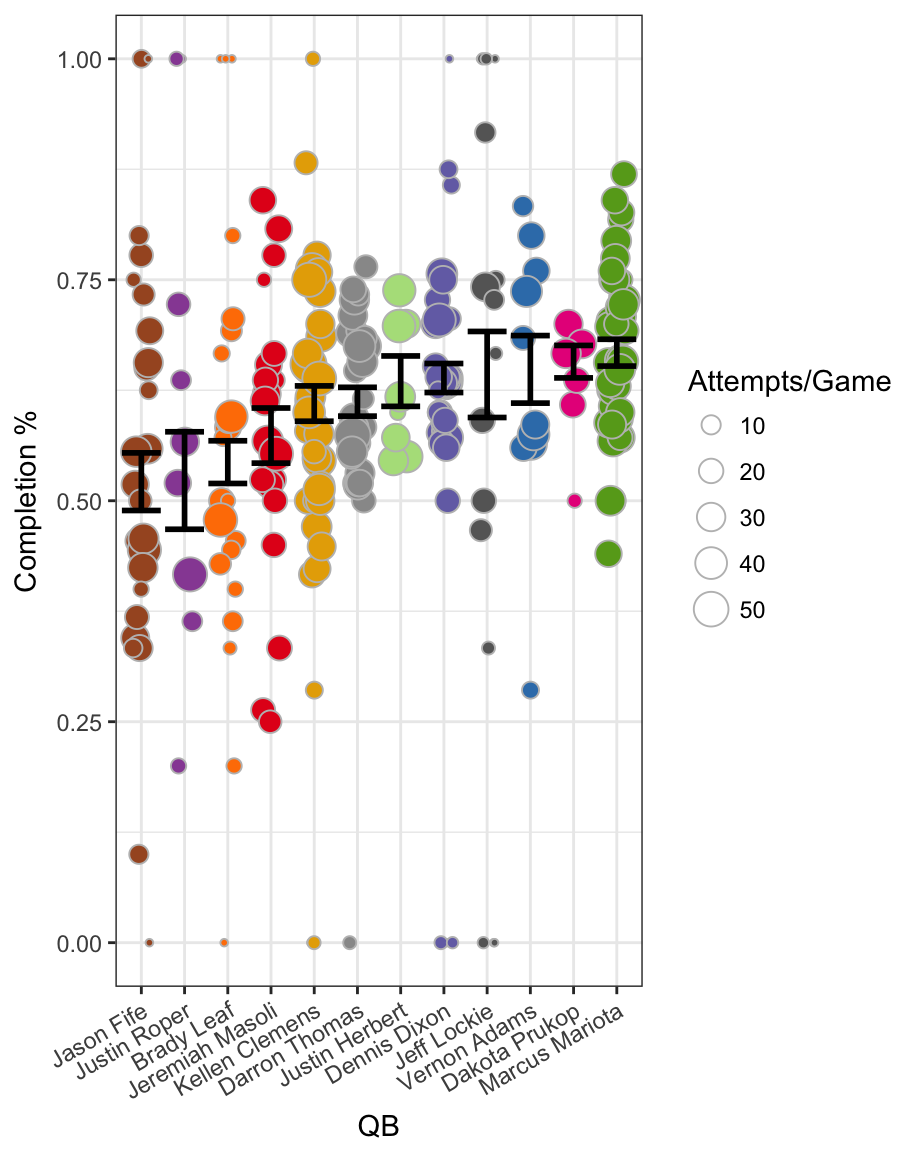
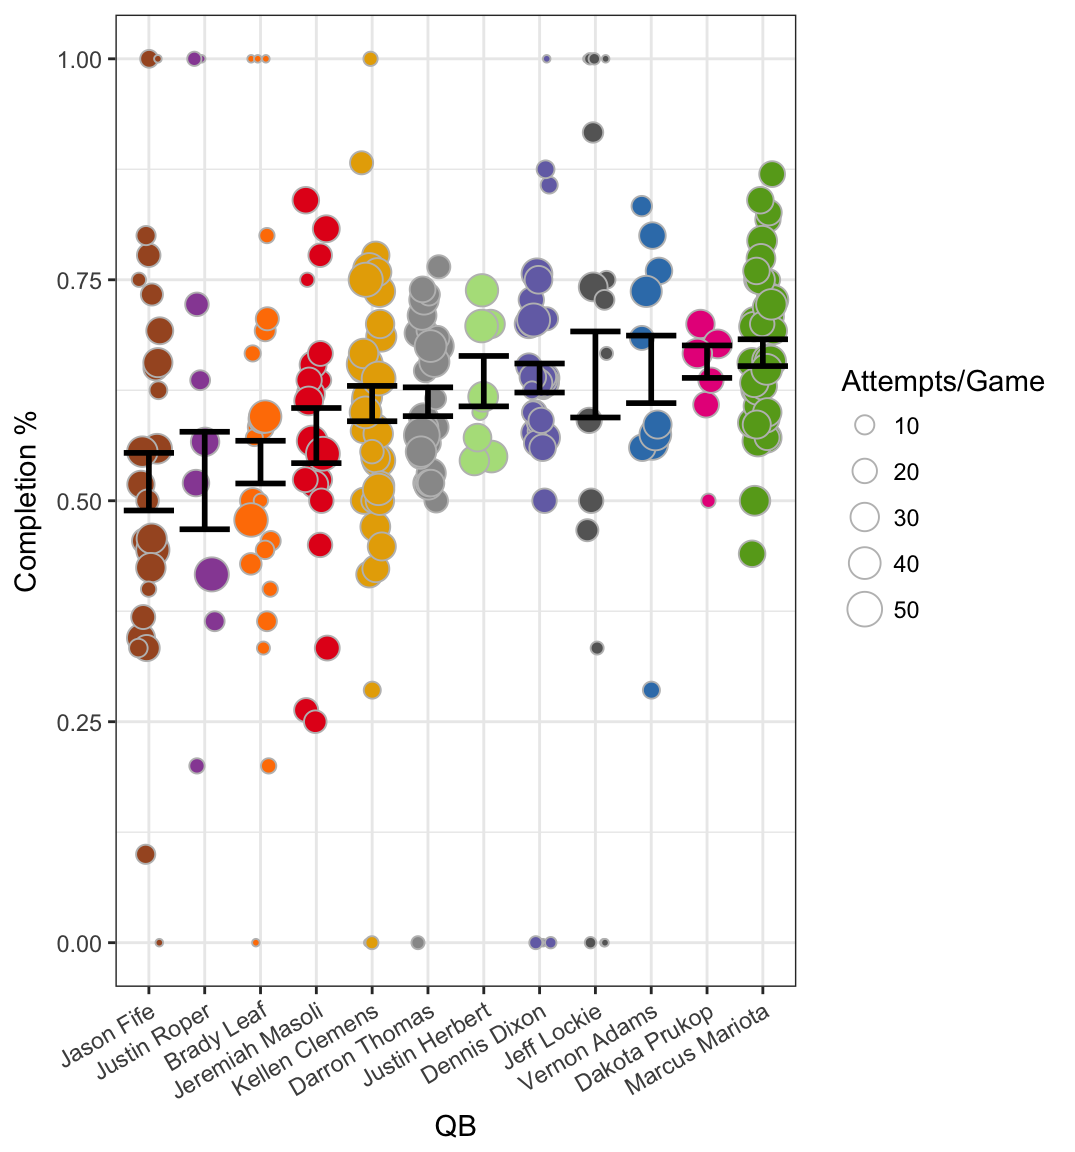
updated qb stats post

diff --git a/oregon_qb_post.html b/oregon_qb_post.html
@@ -248,13 +248,15 @@ $(document).ready(function () {
 <p>Again, somewhat encouraging for our current situation, Herbert is up there with Mariota and Adams. Masoli is the run king, and Prukop threw fewer interceptions than I remember (though these stats are not good for showing the impact of those interceptions on a game).</p>
 <p><strong>Completion percentage</strong></p>
 <p>Here we have a stat that doesn’t have a cumulative counterpart: completion percentage for each game.</p>
-<p><img src="oregon_qb_post_files/figure-html/comp-pc-game-1.png" width="460.8" /></p>
+<p><img src="oregon_qb_post_files/figure-html/comp-pc-game-1.png" width="537.6" /></p>
 <p>Hey look, Mariota is back on top. Most surprisingly, Prukop and Lockie were much higher than I expected. Again, I didn’t do proper stats, but a good rule of thumb is if the standard error intervals don’t overlap there’s probably a statistically significant difference. That puts Herbert, Dixon, Lockie, Adams, Prukop, and Mariota all at similar completion percentages per game. Huh.</p>
 </div>
 <div id="per-attempt-stats" class="section level2">
 <h2>Per Attempt Stats</h2>
 <p><strong>Passing and Rushing Yards</strong></p>
+<p>The figure below shows the average yards gained <em>per attempt</em> in each game for each QB. So, each point still represents a single game, as in the figures above. Again, the errorbars were calculated by giving greater weight to games with more attempts/carries.</p>
 <p><img src="oregon_qb_post_files/figure-html/pass-rush-yds-att-1.png" width="768" /></p>
+<p>These stats are not too surprising. Herbert is right in the middle of the pack for both stats, so it will be interesting to see if that changes much through the course of this year. We see that Mariota averaged more than 5 yards per carry, which is quite impressive, and Vernon Adams averaged right around 10 yards per pass attempt, which is really just astounding to me. This, along with all the previous stats really highlights what many already knew, that Adams and Masoli are basically opposites in terms of QB style, and Mariota did really have it all.</p>
 </div>
 
 
